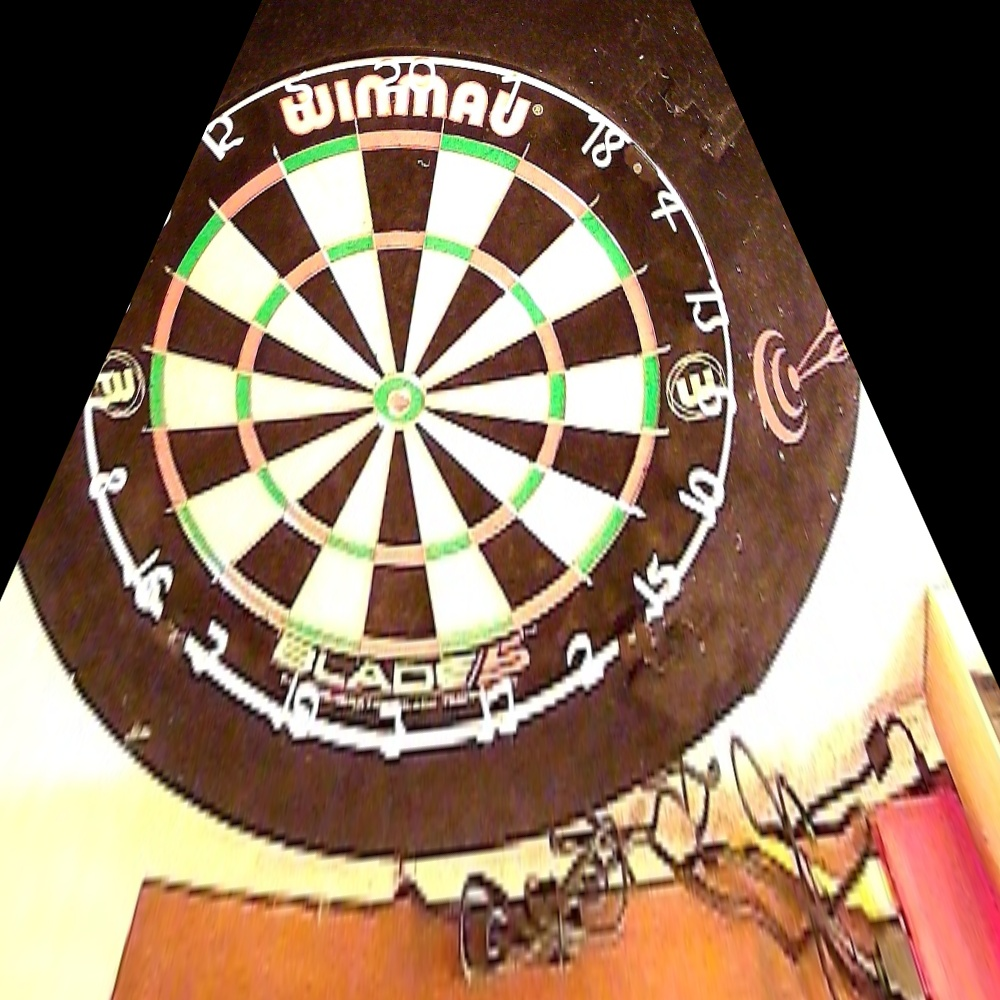
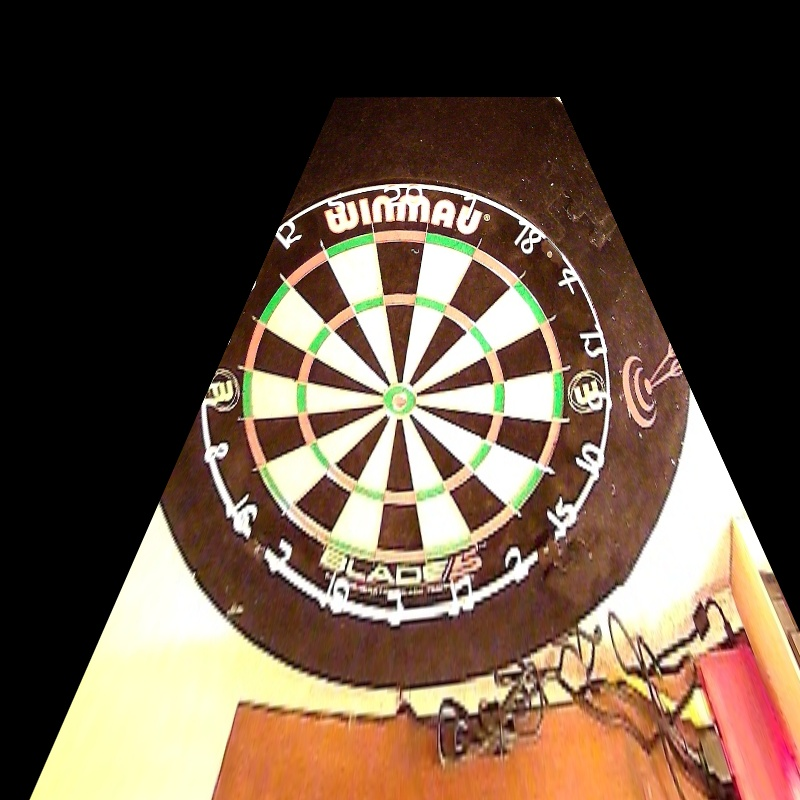
Issue9 Testing new calibration

diff --git a/src/boardClass.py b/src/boardClass.py
@@ -3,9 +3,9 @@ import cv2
 
 class Board:
 
+    std_center = [400, 400]
+
     def __init__(self, h = None):
-        self.std_center = [400, 400]
-        self.radius = 170
         self.h = h
 
     def __repr__(self):
@@ -14,7 +14,11 @@ class Board:
 
     def get_score(self, rel_carth_pos):
             std_carth_pos = self.rel2std(rel_carth_pos)
+            print('std_carth_pos')
+            print(std_carth_pos)
             std_polar_pos = self.carth2pol(std_carth_pos)
+            print('std_polar_pos')
+            print(std_polar_pos)
             score = self.pol2score(std_polar_pos)
             return score
 
@@ -33,17 +37,18 @@ class Board:
     def carth2pol(self, std_cath_pos):
 
         x = std_cath_pos[0] - self.std_center[0]
-        y = self.std_center - std_cath_pos[1]
-        rho = np.sqrt(x**2 + y**2)
-        phi = np.arctan2(y, x)/(2*np.pi)*360 + 90 + 360/20/2  # 0 degree is intersect between 20 and 1
+        print('x')
+        print(x)
+        y = self.std_center[1] - std_cath_pos[1]
+        print('y')
+        print(y)
+        r = np.sqrt(x**2 + y**2)
+        phi = np.arctan2(y, x)/(2*np.pi)*360 - 90 + 360/20/2  # 0 degree is intersect between 20 and 1
 
         #arctan is mapping between -180 and 180, but we want an angle between 0 and 360 to simplify later tasks
         phi = phi % 360
-        print(phi)
 
-        print([rho,phi])
-
-        return [rho,phi]
+        return [r,phi]
 
     def pol2score(self, std_polar_pos):
 
@@ -54,7 +59,7 @@ class Board:
         single_score = fields[int(std_polar_pos[1]/360*20)]
 
         # map radius to multipliers or exceptions (bullseye)
-        r_in_mm = 340
+        r_in_mm = std_polar_pos[0]
 
         if r_in_mm < 6.35: 
             score = 50
@@ -76,7 +81,6 @@ class Board:
         src = self.get_src_points_optical(img, closest_field = closest_field)
         dest = self.get_dest_points()
         h, status = cv2.findHomography(src, dest)
-        print(h)
         self.h = h
     
     def get_src_points_optical(self, img, closest_field):
@@ -104,20 +108,21 @@ class Board:
 
         return src_points
 
-    def pol2cath(self, phi):
-        x0 = self.std_center[0]
-        y0 = self.std_center[1]
-        x = self.radius * np.cos(phi * (np.pi/180)) + x0
-        y = y0 - self.radius * np.sin(phi * (np.pi/180))
+    @classmethod
+    def pol2cath(cls, r, phi):
+        x0 = cls.std_center[0]
+        y0 = cls.std_center[1]
+        x = r * np.cos(phi * (np.pi/180)) + x0
+        y = y0 - r * np.sin(phi * (np.pi/180))
         return [x,y]
 
-    def get_dest_points(self):
-
+    @classmethod
+    def get_dest_points(cls):
         dest_points = np.empty([20,2])
+        r = 107 # Important -> outer edge of triple ring
         for i in range(20):
             angle = 90 - 180/20 - i * 360 / 20
-            dest_points[i] = np.array(self.pol2cath(angle))
-        
+            dest_points[i] = np.array(cls.pol2cath(r, angle))
         return dest_points
 
     def get_lines(self, img, rel_center):

diff --git a/src/cameraClass.py b/src/cameraClass.py
@@ -24,11 +24,9 @@ class Camera:
     
         if h is not None:
             self.board = Board(h = h)
-            print('available')
         else:
             self.board = Board()
             self.calibrate_board(closest_field = closest_field)
-            print('calibrated')
             db.write_trafo(src, self.board.h)
 
         self.dartThrow = None
@@ -48,6 +46,7 @@ class Camera:
     def dart_motion_dect(self):
         
         self.cap.start()
+        time.sleep(0.5)
         print('Waiting for motion')
         
         #Parameters
@@ -75,15 +74,14 @@ class Camera:
             _, img_after, ratio_max_motion, t_motion = self.wait_for_img_diff_within_thresh(0, min_ratio, t_rep, start_image = img_start_motion)
 
             # Get maximum difference of motion
-            ratio_max = max(ratio_start_motion, ratio_max_motion)
+            ratio_max = max(ratio_start_motion, ratio_max_motion)  # ! currently unused
 
             # Get difference ratio of image befor motion and image after motion
             ratio_final = Camera.get_img_diff_ratio(img_before,img_after)
             
             # Criteria for being a dart:
             # time of motion, maximum object smaller max treshold, size of final object in thresholds
-            if t_motion < t_max and ratio_max < max_ratio and \
-                ratio_final < max_ratio and ratio_final > min_ratio:
+            if t_motion < t_max and ratio_final < max_ratio and ratio_final > min_ratio: # ratio_max < max_ratio and
                 dart_detected = True
             else:
                 print('Motion took too long or object to large')

diff --git a/app.py b/app.py
@@ -6,9 +6,10 @@ import src.cameraClass as camCls
 
 app = Flask(__name__)
 
-camera = camCls.Camera(src=0, rot=180, closest_field = 20)
-#camera = camCls.Camera(src=2, rot=180, closest_field = 20)
+#camera = camCls.Camera(src=0, rot=180, closest_field = 20)
+camera = camCls.Camera(src=2, rot=180, closest_field = 20)
 #camera = camCls.Camera(src=4, rot=180, closest_field = 3)
+#camera.calibrate_board(3)
 
 @app.route('/')
 def index():
@@ -20,10 +21,10 @@ def get_score():
     return json.dumps({'score': camera.dartThrow.score})
 
 if __name__ == '__main__':
-    
+    pass
     app.run(host='0.0.0.0', port='8090') #, debug=True
-    img = cv2.imread('static/jpg/base_img0.jpg')
-    print(camera.board.h)
-    imgWarp = cv2.warpPerspective(img,camera.board.h,(1000,1000))
+    #img = cv2.imread('static/jpg/base_img4.jpg')
+    #print(camera.board.h)
+    #imgWarp = cv2.warpPerspective(img,camera.board.h,(800,800))
     #img = camera.cap.read() 
-    cv2.imwrite('static/jpg/warp.jpg', imgWarp)
+    #cv2.imwrite('static/jpg/warp.jpg', imgWarp)

diff --git a/src/db_handler.py b/src/db_handler.py
@@ -58,7 +58,7 @@ def write_trafo(src, h):
     resonse = c.fetchone()
 
     if resonse is not None:
-        c.execute("UPDATE calibrations SET h = ? WHERE src = ?", (src,h))
+        c.execute("UPDATE calibrations SET h = ? WHERE src = ?", (h,src))
     else:
         c.execute("INSERT INTO calibrations VALUES (?, ?)", (src,h))
 
@@ -66,10 +66,10 @@ def write_trafo(src, h):
     conn.close()
 
 if __name__ == '__main__':
-    delete_db()
-    create_db()
+    #delete_db()
+    #create_db()
 
     #h = np.array([2,2])
     #write_trafo(10, h)
-    #h = get_trafo(10)
-    #print(h)
+    h = get_trafo(4)
+    print(h)

diff --git a/src/videoCapture.py b/src/videoCapture.py
@@ -17,7 +17,7 @@ class VideoStream:
 
         self.stream.set(3, width)
         self.stream.set(4, height)
-        self.stream.set(cv2.CAP_PROP_EXPOSURE,-3)
+        self.stream.set(cv2.CAP_PROP_EXPOSURE,-2)
 
         (self.grabbed, self.frame) = self.stream.read()
         self.rotCode = rotations[int(rot/90)]
